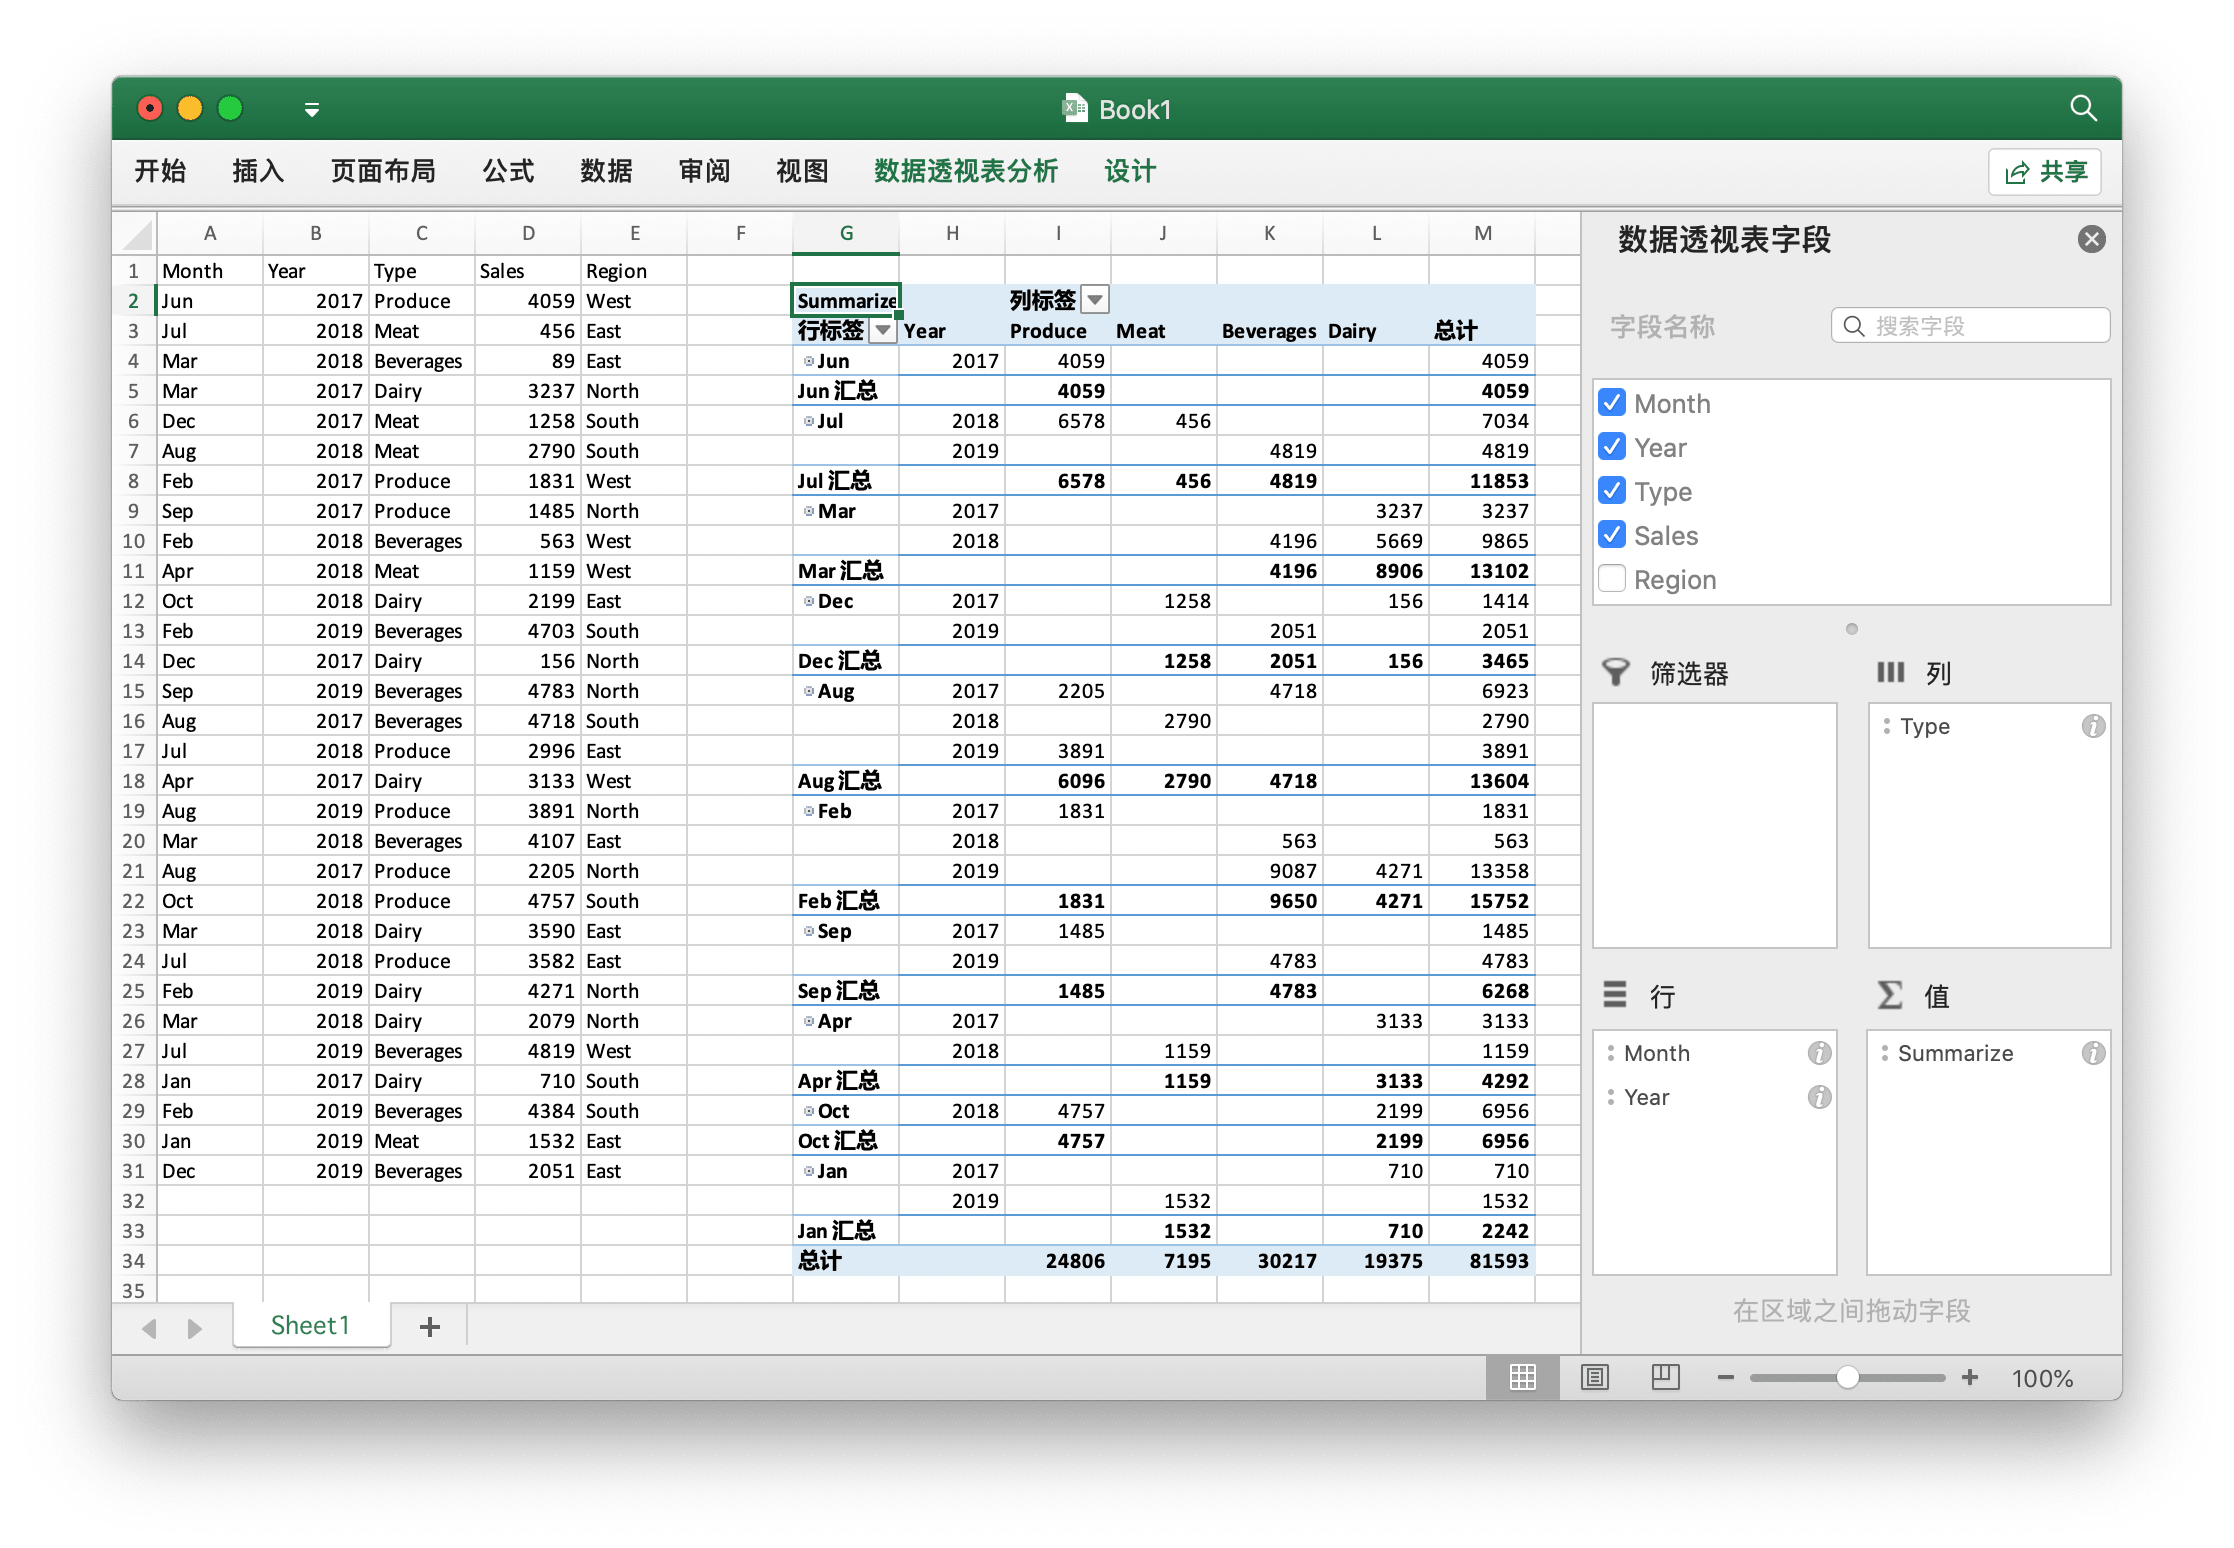
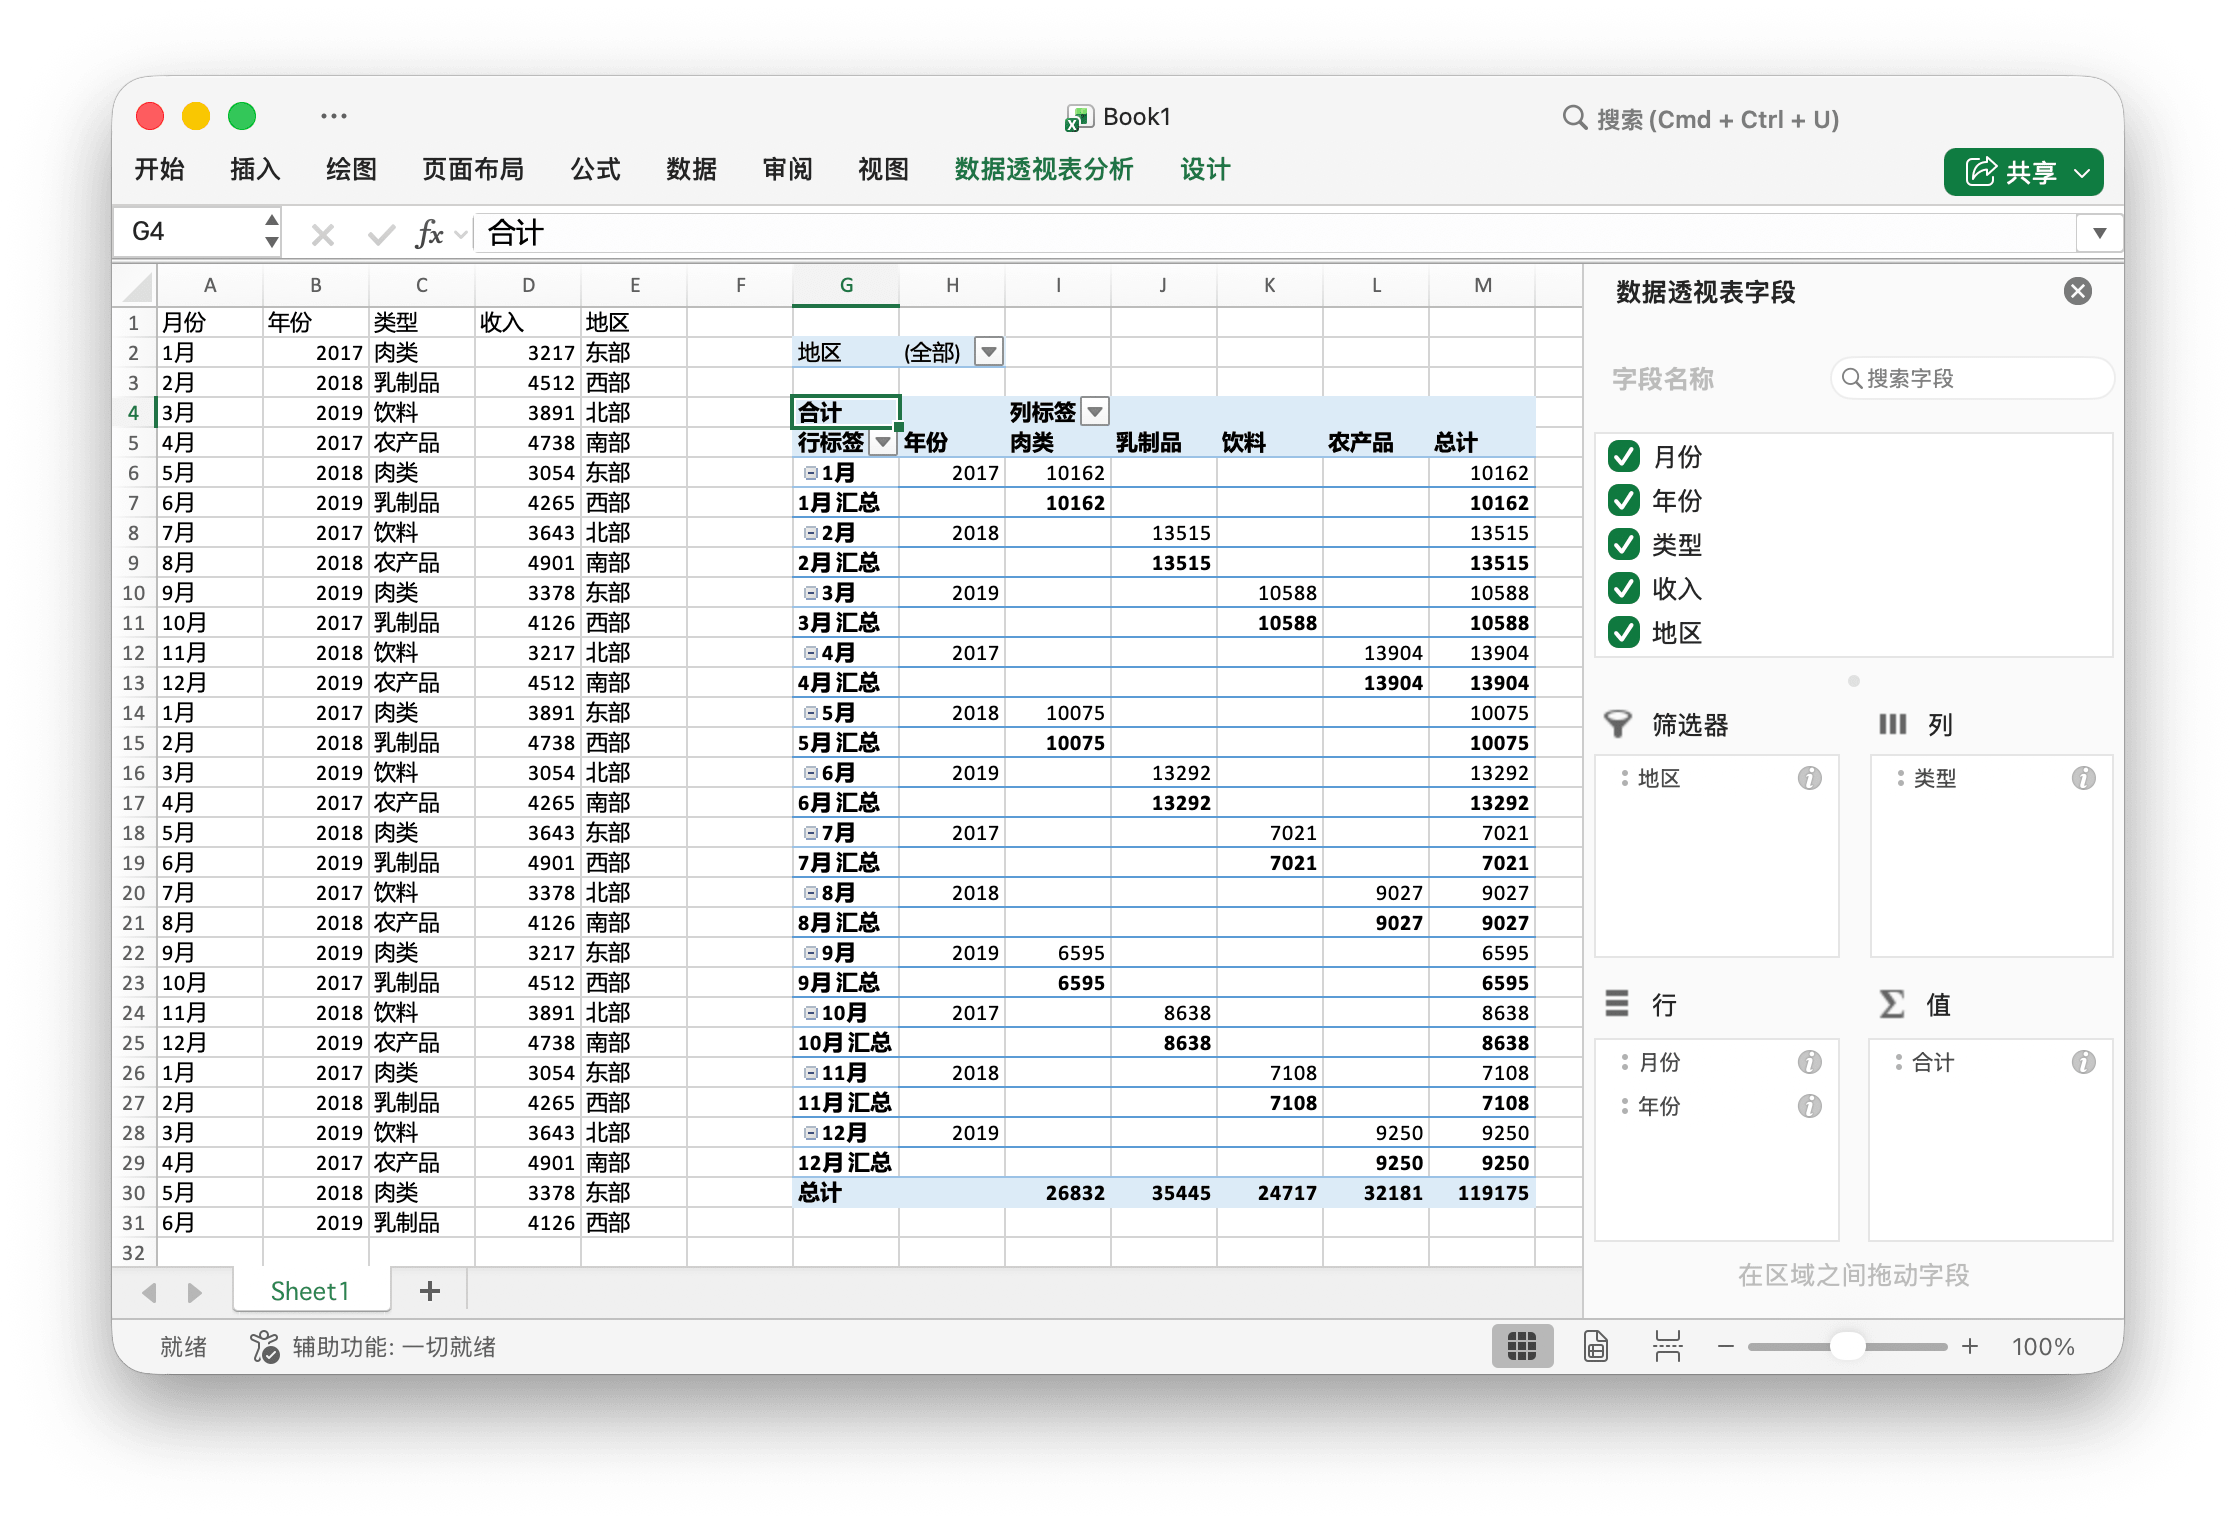
Update zh-hans version docs for new SelectedItems fields in PivotTableOptions and SlicerOptions data type
- This related for xuri/excelize#2154, and xuri/excelize#2271

diff --git a/zh-hans/pivot.md b/zh-hans/pivot.md
@@ -57,6 +57,7 @@ type PivotTableField struct {
     Subtotal        string
     DefaultSubtotal bool
     NumFmt          int
+    SelectedItems   []string
 }
 ```
 
@@ -78,6 +79,8 @@ type PivotTableField struct {
 
 `Name` 用以指定数值字段的名称，最大长度为 `255` 个字符，超出部分的字符将不会被保留。
 
+`SelectedItems` 用以指定透视表字段中的默认选中项，选中项必须是该字段所引用的单元格范围内的值。
+
 ## 创建数据透视表 {#AddPivotTable}
 
 ```go
@@ -86,16 +89,15 @@ func (f *File) AddPivotTable(opts *PivotTableOptions) error
 
 根据给定的属性创建数据透视表。
 
-例如，以 `Sheet1!$G$2:$M$34` 作为数据源，在 `Sheet1!$A$1:$E$31` 选区创建数据透视表，并按照销售数据汇总求和:
+例如，以 `Sheet1!G4:M30` 作为数据源，在 `Sheet1!A1:E31` 选区创建数据透视表，并按照销售数据汇总求和:
 
-<p align="center"><img width="1117" src="./images/pivot_table_01.png" alt="使用 Go 语言通过 Excelize 创建数据透视表"></p>
+<p align="center"><img width="1118" src="./images/pivot_table_01.png" alt="使用 Go 语言通过 Excelize 创建数据透视表"></p>
 
 ```go
 package main
 
 import (
     "fmt"
-    "math/rand"
 
     "github.com/xuri/excelize/v2"
 )
@@ -108,30 +110,40 @@ func main() {
         }
     }()
     // 在工作表中添加数据
-    month := []string{"Jan", "Feb", "Mar", "Apr", "May",
-        "Jun", "Jul", "Aug", "Sep", "Oct", "Nov", "Dec"}
+    month := []string{"1月", "2月", "3月", "4月", "5月", "6月",
+        "7月", "8月", "9月", "10月", "11月", "12月"}
     year := []int{2017, 2018, 2019}
-    types := []string{"Meat", "Dairy", "Beverages", "Produce"}
-    region := []string{"East", "West", "North", "South"}
-    f.SetSheetRow("Sheet1", "A1", &[]string{"Month", "Year", "Type", "Sales", "Region"})
+    types := []string{"肉类", "乳制品", "饮料", "农产品"}
+    revenue := []int{3217, 4512, 3891, 4738, 3054, 4265, 3643, 4901, 3378, 4126}
+    region := []string{"东部", "西部", "北部", "南部"}
+    if err := f.SetSheetRow(
+        "Sheet1", "A1", &[]string{"月份", "年份", "类型", "收入", "地区"},
+    ); err != nil {
+        fmt.Println(err)
+        return
+    }
     for row := 2; row < 32; row++ {
-        f.SetCellValue("Sheet1", fmt.Sprintf("A%d", row), month[rand.Intn(12)])
-        f.SetCellValue("Sheet1", fmt.Sprintf("B%d", row), year[rand.Intn(3)])
-        f.SetCellValue("Sheet1", fmt.Sprintf("C%d", row), types[rand.Intn(4)])
-        f.SetCellValue("Sheet1", fmt.Sprintf("D%d", row), rand.Intn(5000))
-        f.SetCellValue("Sheet1", fmt.Sprintf("E%d", row), region[rand.Intn(4)])
+        f.SetCellValue("Sheet1", fmt.Sprintf("A%d", row), month[(row-2)%len(month)])
+        f.SetCellValue("Sheet1", fmt.Sprintf("B%d", row), year[(row-2)%len(year)])
+        f.SetCellValue("Sheet1", fmt.Sprintf("C%d", row), types[(row-2)%len(types)])
+        f.SetCellValue("Sheet1", fmt.Sprintf("D%d", row), revenue[(row-2)%len(revenue)])
+        f.SetCellValue("Sheet1", fmt.Sprintf("E%d", row), region[(row-2)%len(region)])
     }
     if err := f.AddPivotTable(&excelize.PivotTableOptions{
         DataRange:       "Sheet1!A1:E31",
-        PivotTableRange: "Sheet1!G2:M34",
+        PivotTableRange: "Sheet1!G4:M30",
         Rows: []excelize.PivotTableField{
-            {Data: "Month", DefaultSubtotal: true}, {Data: "Year"}},
+            {Data: "月份", DefaultSubtotal: true}, {Data: "年份"},
+        },
         Filter: []excelize.PivotTableField{
-            {Data: "Region"}},
+            {Data: "地区"},
+        },
         Columns: []excelize.PivotTableField{
-            {Data: "Type", DefaultSubtotal: true}},
+            {Data: "类型", DefaultSubtotal: true},
+        },
         Data: []excelize.PivotTableField{
-            {Data: "Sales", Name: "Summarize", Subtotal: "Sum"}},
+            {Data: "收入", Name: "合计", Subtotal: "Sum"},
+        },
         RowGrandTotals: true,
         ColGrandTotals: true,
         ShowDrill:      true,

diff --git a/zh-hans/data.md b/zh-hans/data.md
@@ -82,24 +82,28 @@ func (f *File) DeleteDataValidation(sheet string, sqref ...string) error
 
 ```go
 type SlicerOptions struct {
-    Name          string
-    Table         string
-    Cell          string
-    Caption       string
-    Macro         string
-    Width         uint
-    Height        uint
-    DisplayHeader *bool
-    ItemDesc      bool
-    Format        GraphicOptions
+    Name            string
+    Cell            string
+    TableSheet      string
+    TableName       string
+    Caption         string
+    Macro           string
+    Width           uint
+    Height          uint
+    DisplayHeader   *bool
+    ItemDesc        bool
+    Format          GraphicOptions
+    SelectedItems   []string
 }
 ```
 
 `Name` 为必选参数，用于设置切片器的名称，必须是工作表中已有表格或数据透视表中字段名称。
 
-`Table` 为必选参数，用于设置切片器关联的表格或数据透视表名称。
-
 `Cell` 为必选参数，用于设置切片器左上角单元格坐标位置。
+
+`TableSheet` 为必选参数，用于设置切片器关联的工作表名称。
+
+`TableName` 为必选参数，用于设置切片器关联的表格或数据透视表名称。
 
 `Caption` 为可选参数，用于设置切片器的标题。
 
@@ -114,6 +118,8 @@ type SlicerOptions struct {
 `ItemDesc` 为可选参数，用于设置使用降序 (Z-A) 为切片器项目排序，默认设置为 `false`（表示使用升序）。
 
 `Format` 为可选参数，用于设置切片器的格式（大小和属性）。
+
+`SelectedItems` 为可选参数，用于指定切片器中的默认选中项。目前，该选项仅支持在透视表中切片器中使用，并且选中项必须位于透视表中已选中项的范围内。如果透视表是使用 [`AddPivotTable`](pivot.md#AddPivotTable) 函数创建的，则在创建透视表时，也必须为同一字段指定选中项范围。
 
 ```go
 func (f *File) AddSlicer(sheet string, opts *SlicerOptions) error
